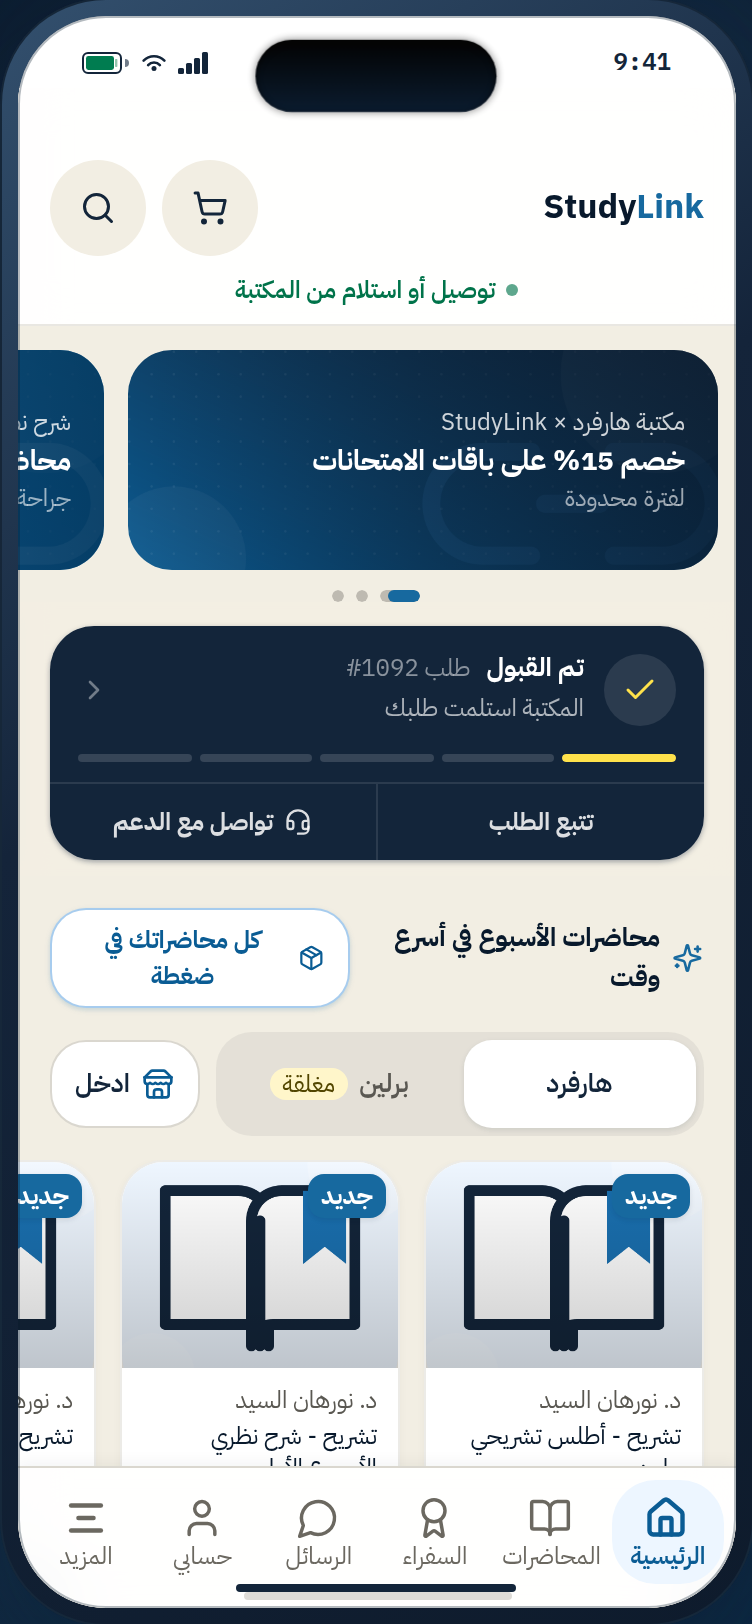
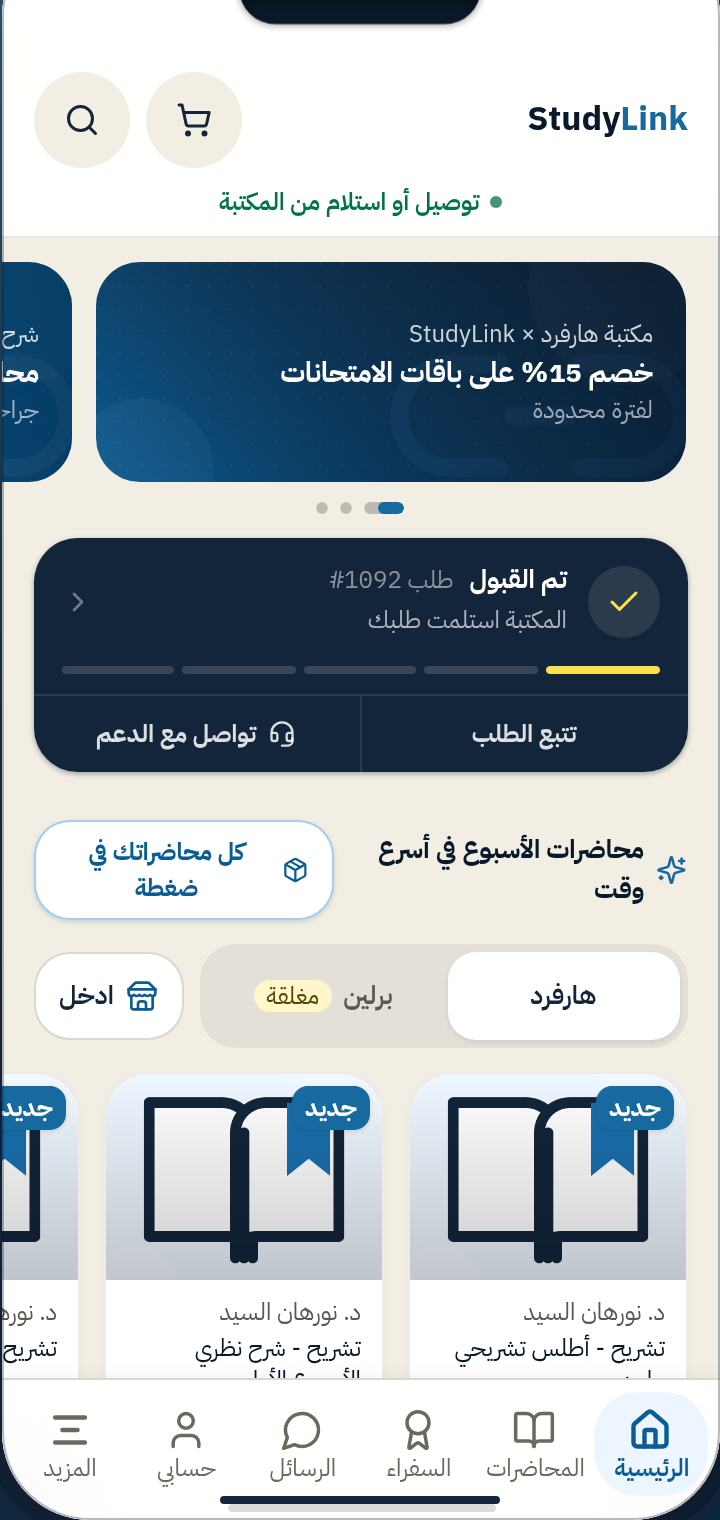
شريط الطلب الجاري يبقى في مكانه ولا يتحرّك مع التمرير
كان `sticky top-0` فيثبت أعلى الشاشة طوال التمرير، وهو ما قُرئ كأنه «ينزل مع
المستخدم» ويزاحم محتوى الصفحة. صار عنصرًا عاديًا في مجرى الصفحة تحت البانرات:
يظهر في مكانه ويمرّ منه المستخدم كأي بطاقة أخرى.

القرار موثّق في تعليق المكوّن وفي مواصفة الشاشة (src/lib/spec.ts) كي لا يُعاد
جعله لاصقًا لاحقًا بحسن نية.

التحقق: typecheck 0 · lint 0 · audit:ui 3/5/0/0/0 · audit:ux 0/0/0/0
· audit:overlap 0 · audit:scroll نظيف

diff --git a/src/components/studylink/ActiveOrderBar.tsx b/src/components/studylink/ActiveOrderBar.tsx
@@ -15,9 +15,13 @@ import {
 /**
  * شريط الطلب الجاري — يظهر أعلى الرئيسية طالما هناك طلب نشط.
  *
- * الغرض: الطالب الذي عنده طلب شغّال لا يجب أن يبحث عنه. الشريط يلاصق أعلى
- * منطقة التمرير فيبقى ظاهرًا وهو ينزل في الصفحة، ويعرض المرحلة الحالية وخطًا
- * زمنيًا يتقدّم، ومدخلين: التتبع الكامل، والتواصل مع الدعم.
+ * الغرض: الطالب الذي عنده طلب شغّال لا يجب أن يبحث عنه. الشريط يجلس تحت
+ * البانرات مباشرة ويعرض المرحلة الحالية وخطًا زمنيًا يتقدّم، ومدخلين: التتبع
+ * الكامل، والتواصل مع الدعم.
+ *
+ * ⚠ **ليس لاصقًا (`sticky`) عمدًا.** جُرّب لاصقًا فبدا وكأنه «ينزل مع المستخدم»
+ * ويزاحم محتوى الصفحة طوال التمرير. القرار: يبقى في مكانه ويمرّ منه المستخدم
+ * كأي بطاقة أخرى.
  *
  * ⚠ المرحلة هنا **مشتقّة من الزمن للمعاينة فقط** (`demoStageIndex`). في المنتج
  * تأتي من الباك-إند مع كل تحديث حالة — راجع التعليق في `src/lib/order-status.ts`.
@@ -53,7 +57,7 @@ export default function ActiveOrderBar({
   const done = idx === ORDER_STAGES.length - 1
 
   return (
-    <div className="sticky top-0 z-10 px-4 pt-3 pb-2 bg-brand-grey-100/95 backdrop-blur-sm">
+    <div className="px-4 pt-3 pb-2">
       <div className="rounded-2xl bg-navy-800 text-white shadow-sm shadow-navy-800/20 overflow-hidden">
         <button
           data-tap="44"

diff --git a/src/lib/spec.ts b/src/lib/spec.ts
@@ -59,7 +59,7 @@ export const SCREEN_SPECS: Record<string, ScreenSpec> = {
       'المكتبة النشطة تُغيّر قائمة المنتجات كلها — ليست فلترًا بصريًا.',
       'بطاقة الموسم هي العنصر الوحيد ذو السطح الحبري في هذه الشاشة، لأنها أعلى الهرم. لا تعطِ عنصرًا آخر نفس الوزن.',
       'التصنيفات الثلاثة شكل واحد، والفرق بينها لون التصنيف فقط.',
-      'شريط الطلب الجاري يلاصق أعلى منطقة التمرير فيبقى ظاهرًا أثناء النزول، ولا يُعرض أصلًا بلا طلب نشط.',
+      'شريط الطلب الجاري يجلس تحت البانرات في مجرى الصفحة — **ليس لاصقًا**، ولا يُعرض أصلًا بلا طلب نشط.',
       '**ممنوع `scrollIntoView` داخل أي كاروسيل.** يمرّر كل الحاويات الأب لا الأفقية وحدها، فيقفز التمرير الرأسي لأعلى. مرّر الحاوية نفسها بـ`scrollBy` بفارق مركزَين محسوب من `getBoundingClientRect`.',
     ],
     states: ['تحميل (هيكل عظمي موجود)', 'مكتبة مغلقة → `LibraryClosedSheet`', 'لم تُختر الفرقة بعد → `GradeGateOverlay`', 'بلا طلب نشط → شريط الطلب لا يُرسَم إطلاقًا', 'الطلب وصل «تم التسليم» → الشريط يتحوّل للون الإتمام'],

diff --git a/src/components/studylink/screens/HomeScreen.tsx b/src/components/studylink/screens/HomeScreen.tsx
@@ -441,8 +441,9 @@ export default function HomeScreen({ onNavigate }: HomeScreenProps) {
           </div>
         </div>
 
-        {/* شريط الطلب الجاري — تحت البانرات، ويلاصق أعلى منطقة التمرير فيثبت
-            أعلى الشاشة بمجرد أن يمرّرها المستخدم. لا يُرسَم أصلًا بلا طلب نشط. */}
+        {/* شريط الطلب الجاري — تحت البانرات مباشرة وفي مجرى الصفحة.
+            ليس لاصقًا: بقاؤه أعلى الشاشة أثناء التمرير قُرئ كأنه «ينزل مع
+            المستخدم». لا يُرسَم أصلًا بلا طلب نشط. */}
         <ActiveOrderBar onNavigate={onNavigate} />
 
         {/* ===== 2. "محاضراتك في أسرع وقت" — Fast Track Section ===== */}
